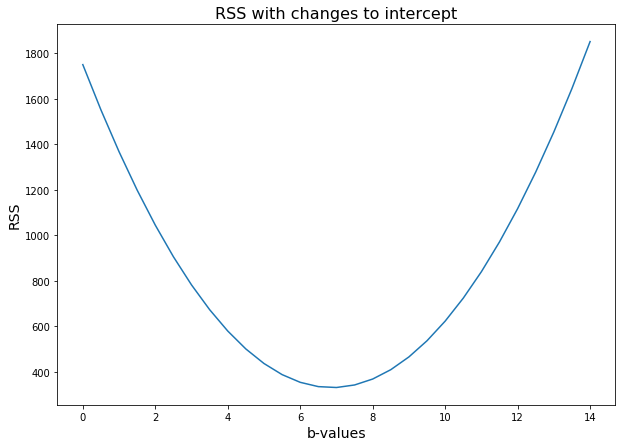
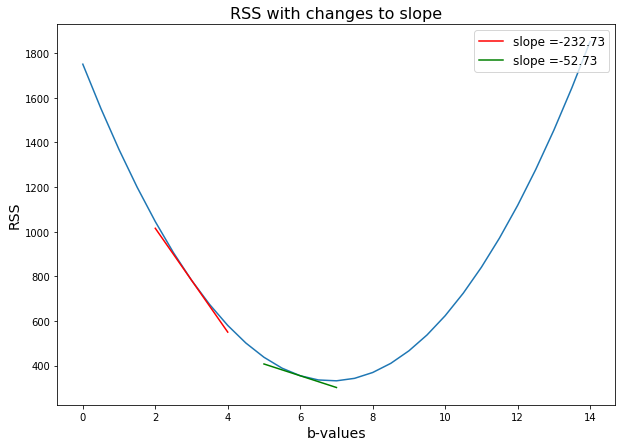
merged markdown cells

diff --git a/README.md b/README.md
@@ -56,7 +56,7 @@ plt.show()
 ```
 
 
-![png](index_files/index_9_0.png)
+![png](index_files/index_4_0.png)
 
 
 
@@ -160,7 +160,7 @@ plt.title("RSS with changes to intercept", fontsize=16);
 ```
 
 
-![png](index_files/index_20_0.png)
+![png](index_files/index_13_0.png)
 
 
 ## Looking at the slope of our cost curve
@@ -234,7 +234,7 @@ plt.title("RSS with changes to slope", fontsize=16);
 ```
 
 
-![png](index_files/index_28_0.png)
+![png](index_files/index_20_0.png)
 
 
 As you can see, it seems pretty accurate.  When the curve is steeper and downwards at $b = 3$, the slope is around -232.73.  And at $b = 6$ with our cost curve becoming flatter, our slope is around -52.73. 
@@ -389,7 +389,7 @@ plt.ylabel("y", fontsize=14);
 ```
 
 
-![png](index_files/index_44_0.png)
+![png](index_files/index_32_0.png)
 
 
 As you can see, this final intercept value of around $b=6.8$ better matches our data. Remember that the slope was kept constant. You can see that lifting the slope upwards could probably even lead to a better fit!
